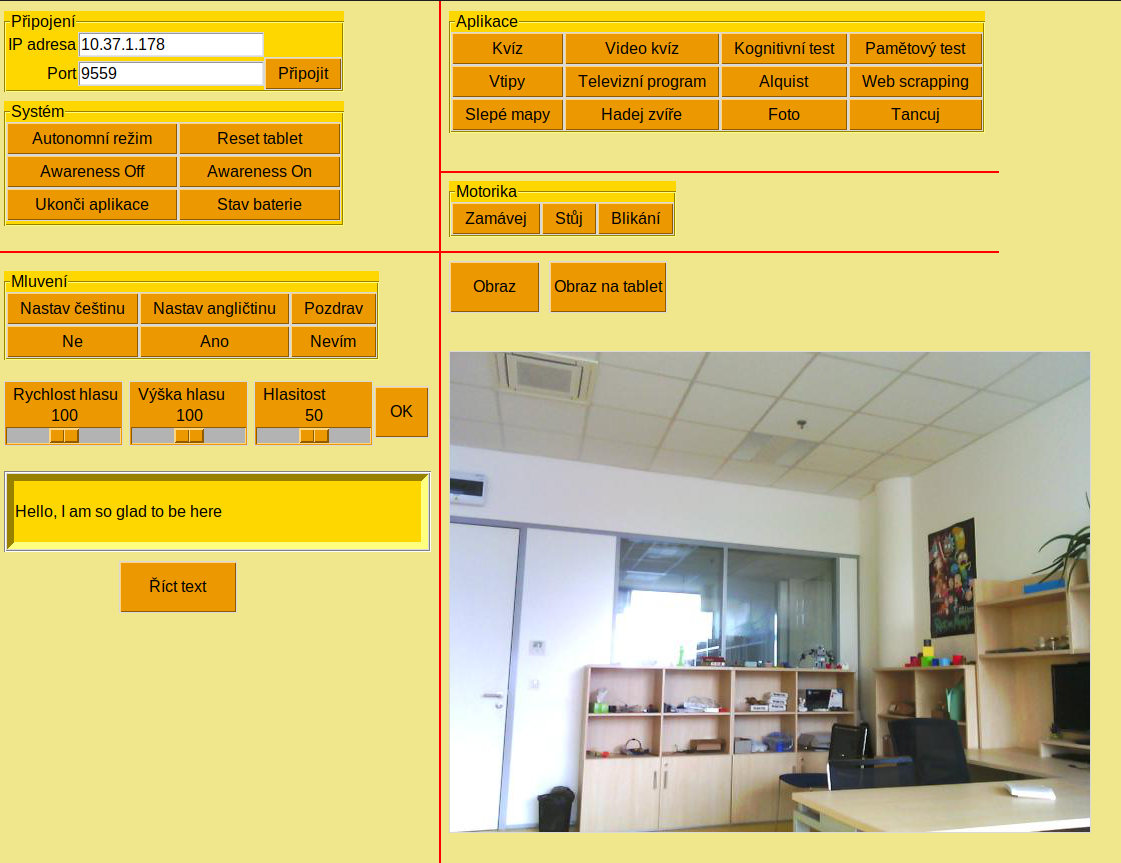
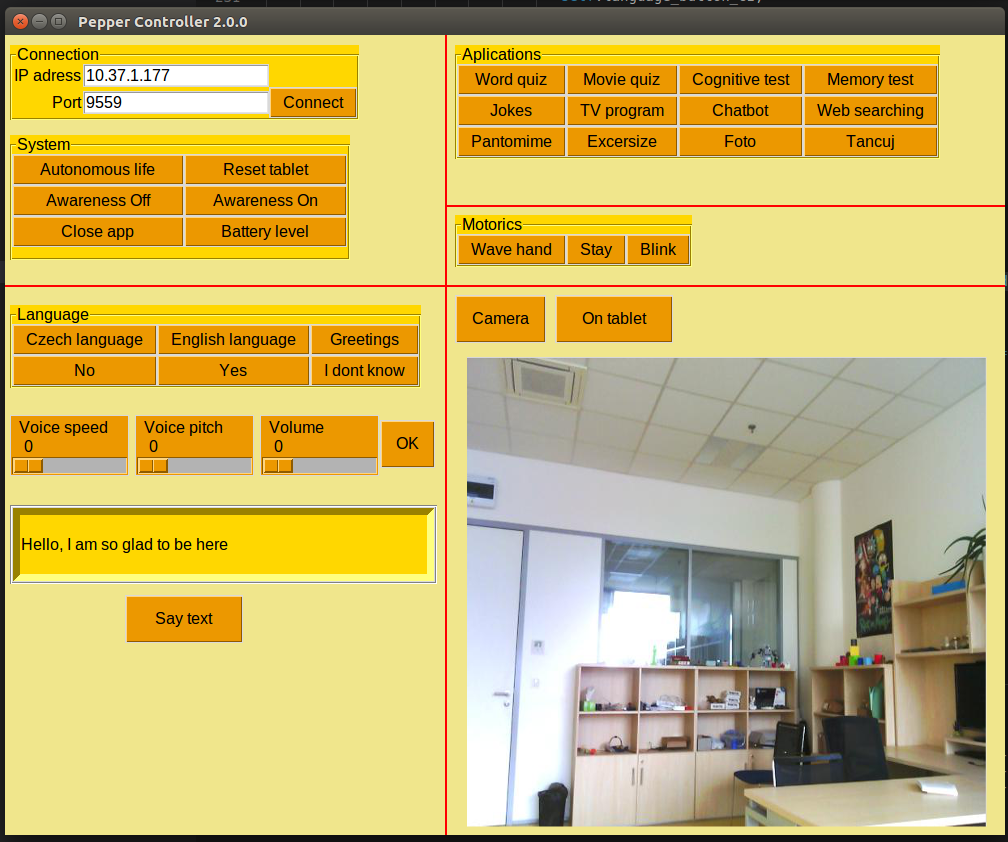
English version

diff --git a/hellopepper.py b/hellopepper.py
@@ -25,48 +25,48 @@ port = 9559
 robot = Pepper(ip_address, port)
 
 robot.set_volume(50)
-robot.say("Dobrý den, jsem robot pepr.")
+robot.say("Hello, I am Pepper robot.")
 robot.start_animation(random.choice(["Hey_1", "Hey_3", "Hey_4", "Hey_6"]))
 
-robot.say("Takto si vás mohu vyfotit svojí kamerou.")
+robot.say("I can make your photograph.")
 local_img_path = robot.take_picture()
 
 # To display image on tablet, you need to provide URL of the image - i.e., upload the image online
-robot.say("Obrázek najdete ve složce projektu. Kdybych ho chtěl ukázat na tabletu, musel bych ho nahrát na internet.")
+robot.say("The picture will be saved in the project folder.")
 #photo_link = uploadPhotoToWeb(local_img_path)
 #robot.show_image(photo_link)
 #time.sleep(3)
 #robot.reset_tablet()
 
-robot.say("Takto můžeme na tabletu zobrazit vebovou stránku.")
-robot.show_web("https://www.seznam.cz/")
+robot.say("I can also show the internet page on my tablet.")
+robot.show_web("https://www.google.com/")
 time.sleep(5)
 robot.reset_tablet()
 
-robot.say("Chcete, abych vám ukázal, jak funguje rozpoznávání řeči?")
-positive_answers = ["ano", "jo", "tak jo", "chci", "chceme", "jasně"]
-vocab = positive_answers + ["ne", "nechci", "nechceme", "nevím", "hm"]
+robot.say("Do you want to see how I can recognize language?")
+positive_answers = ["yes", "yep", "ok", "i want", "sure", "definitely"]
+vocab = positive_answers + ["no", "not", "i dont", "i do not know", "not sure"]
 answer = robot.listen_to(vocabulary=vocab)
 
 if answer[0] in positive_answers:
-     robot.say("Dobře.. pro rozpoznání libovolných promluv použijeme knihovnu od gůglu. Vyjmenujte prosím roční období.")
+     robot.say("Ok, now you have to count up to five")
      recognised = robot.recordSound()
-     robot.say("Rozpoznal jsem {}".format(recognised.encode('utf-8')))
-else: robot.say("Dobře.")
+     robot.say("I recognized {}".format(recognised.encode('utf-8')))
+else: robot.say("Cool.")
 
 while True:
-    robot.say("Dotkněte se nyní hřbetu mojí pravé ruky.")
+    robot.say("Touch my right palm.")
     touched_sensor = robot.detect_touch()
     if touched_sensor[0] == "RArm":
-        robot.say("Super. Tak takhle se dá detekovat dotyk.")
+        robot.say("Perfect, I can detect touch.")
         break
     else:
-        robot.say("Teď jste se dotkli jiného senzoru.")
+        robot.say("Now you touched different part of my body.")
 
-robot.say("Poslední důležitá věc je přepínání mezi autonomním režimem. Teď ho mám zapnutý a díky tomu jsem interaktivní. Pokud "
-          "bych se ale měl třeba hýbat, je třeba autonomní režim vypnout, aby mě nemátl.")
+robot.say("The last important thing is to switch between autonomous mode. Now I have it turned on and thanks to that I'm interactive. If "
+          "I should move, the autonomous regime needs to be turned off so that it doesn't confuse me.")
 robot.autonomous_life_off()
-robot.say("A je to.", bodylanguage="disabled")
+robot.say("Thats it.", bodylanguage="disabled")
 robot.move_joint_by_angle(["LShoulderRoll", "LShoulderPitch", "RShoulderRoll", "RShoulderPitch"], [-2.9,-1, -2.9, -1], 0.4)
 time.sleep(2)
 robot.stand()

diff --git a/demoForClass.py b/demoForClass.py
@@ -35,15 +35,15 @@ class PepperDemo:
         self.robot = Pepper(ip_address, port)
         self.robot.set_czech_language()
         self.photoName = None
-        self.greetings = ["dobrý den", "ahoj", "zdravím", "zdravíčko", "dobrý den ve spolek"]
-        self.asks = ["Mohu vás vyfotit a zveřejnit to na internetu?","Chcete se vyfotit?", "Chcete abych vas vyfotil?"]
+        self.greetings = ["Good afternoon", "Hello", "Hi", "Hello everobody", "Welcome"]
+        self.asks = ["May I photograph you?","May I take your picture?", "Do you want to make your picture?"]
 
     '''recognise answer with google speech reco'''
     def wantToTakePic(self):
-        answers = {"no": ["ne", "ani ne", "vůbec", "moc ne", "nechci", "nevím", "dnes ne", "později", "přiště"],
-                   "yes": ["jo", "rozhodně", "ano", "jasně", "jo jo", "to teda", "no jasně", "no",
-                          "strašně", "chci", "celkem jo", "vcelku jo", "celkem ano", "ale jo", "asi", "třeba",
-                          "nožná"]}
+        answers = {"no": ["no", "no way", "not", "no no", " i dont", "i dont know", "not today", "later", "tommorow"],
+                   "yes": ["yes", "definitely", "yep", "ok", "okey dokey", "sure", "all yes", "you must",
+                          "absolutely", "i want", "i think so", "i agree", "if you want", "if you insist", "probably", "maybe",
+                          "yes sir"]}
         recorded = self.robot.recordSound()
         answer = self.getAnswer(answers, recorded)
         if answer == "no":
@@ -85,14 +85,14 @@ class PepperDemo:
     def recogniseAnswerAndDecide(self):
         isTakePic = self.wantToTakePic()
         if isTakePic:
-            self.robot.say("Super, připravte se. 3, 2, 1 .")
+            self.robot.say("Perfect. On your marks. 3, 2, 1 .")
             self.takePicture()
             self.showPicture()
         elif isTakePic is None:
-            self.robot.say("Nepochopil jsem nebo mluvili jste příliš potichu, zkuste to řict jinak")
+            self.robot.say("Sorry, I did not understand you. Please repeat.")
             self.recogniseAnswerAndDecide()
         else:
-            self.robot.say("Tak možná někdy přiště")
+            self.robot.say("Maybe next time")
 
     '''there is a modifiable grammar error sometimes occurred. 
     In order to deal with it you should change language to english and back'''

diff --git a/main.py b/main.py
@@ -135,9 +135,9 @@ class PepperController:
         self.button_app_10 = Button(self.group_application, text=self.configuration.conf["application_10"]["name"],
                                     command=lambda: self.robot.start_behavior(
                                         self.configuration.conf["application_10"]["package"]))
-        self.button_app_11 = Button(self.group_application, text="Foto",
+        self.button_app_11 = Button(self.group_application, text="Take picture",
                                     command=lambda: foto.PepperDemo(None, self.robot).run())
-        self.button_app_12 = Button(self.group_application, text="Tancuj",
+        self.button_app_12 = Button(self.group_application, text="Dance",
                                     command=lambda: self.robot.dance())
 
         self.button_app_1.grid(row=0, column=1, sticky=NSEW)
@@ -207,7 +207,7 @@ class PepperController:
         self.voice_shaping_scale = Scale(self.root, from_=0, to=200, orient=HORIZONTAL, label="Voice pitch", length=115)
         self.voice_speed_scale = Scale(self.root, from_=0, to=200, orient=HORIZONTAL, label="Voice speed", length=115)
         self.voice_volume_scale = Scale(self.root, from_=0, to=100, orien=HORIZONTAL, label="Volume", length=115)
-        self.button_confirm = Button(self.root, text="OK", command=lambda: self.robot.changeVoice(
+        self.button_confirm = Button(self.root, text="Ok", command=lambda: self.robot.changeVoice(
             self.voice_volume_scale.get(), self.voice_speed_scale.get(), self.voice_shaping_scale.get()), height=2,width=3)
 
         self.voice_speed_scale.place(x=5, y=380)
@@ -273,7 +273,7 @@ class PepperController:
         #y = threading.Thread(target=self.streamTablet)
 
         self.button_obraz = Button(self.root, text="Camera", command=lambda: x.start(), width=7, height=2)
-        self.button_obraz_to_tablet = Button(self.root, text="Camera on tablet", command=lambda: self.pictureToTablet(), width=10, height=2)
+        self.button_obraz_to_tablet = Button(self.root, text="On tablet", command=lambda: self.pictureToTablet(), width=10, height=2)
         self.button_obraz.place(x=450, y=260)
         self.button_obraz_to_tablet.place(x=550, y=260)
 
